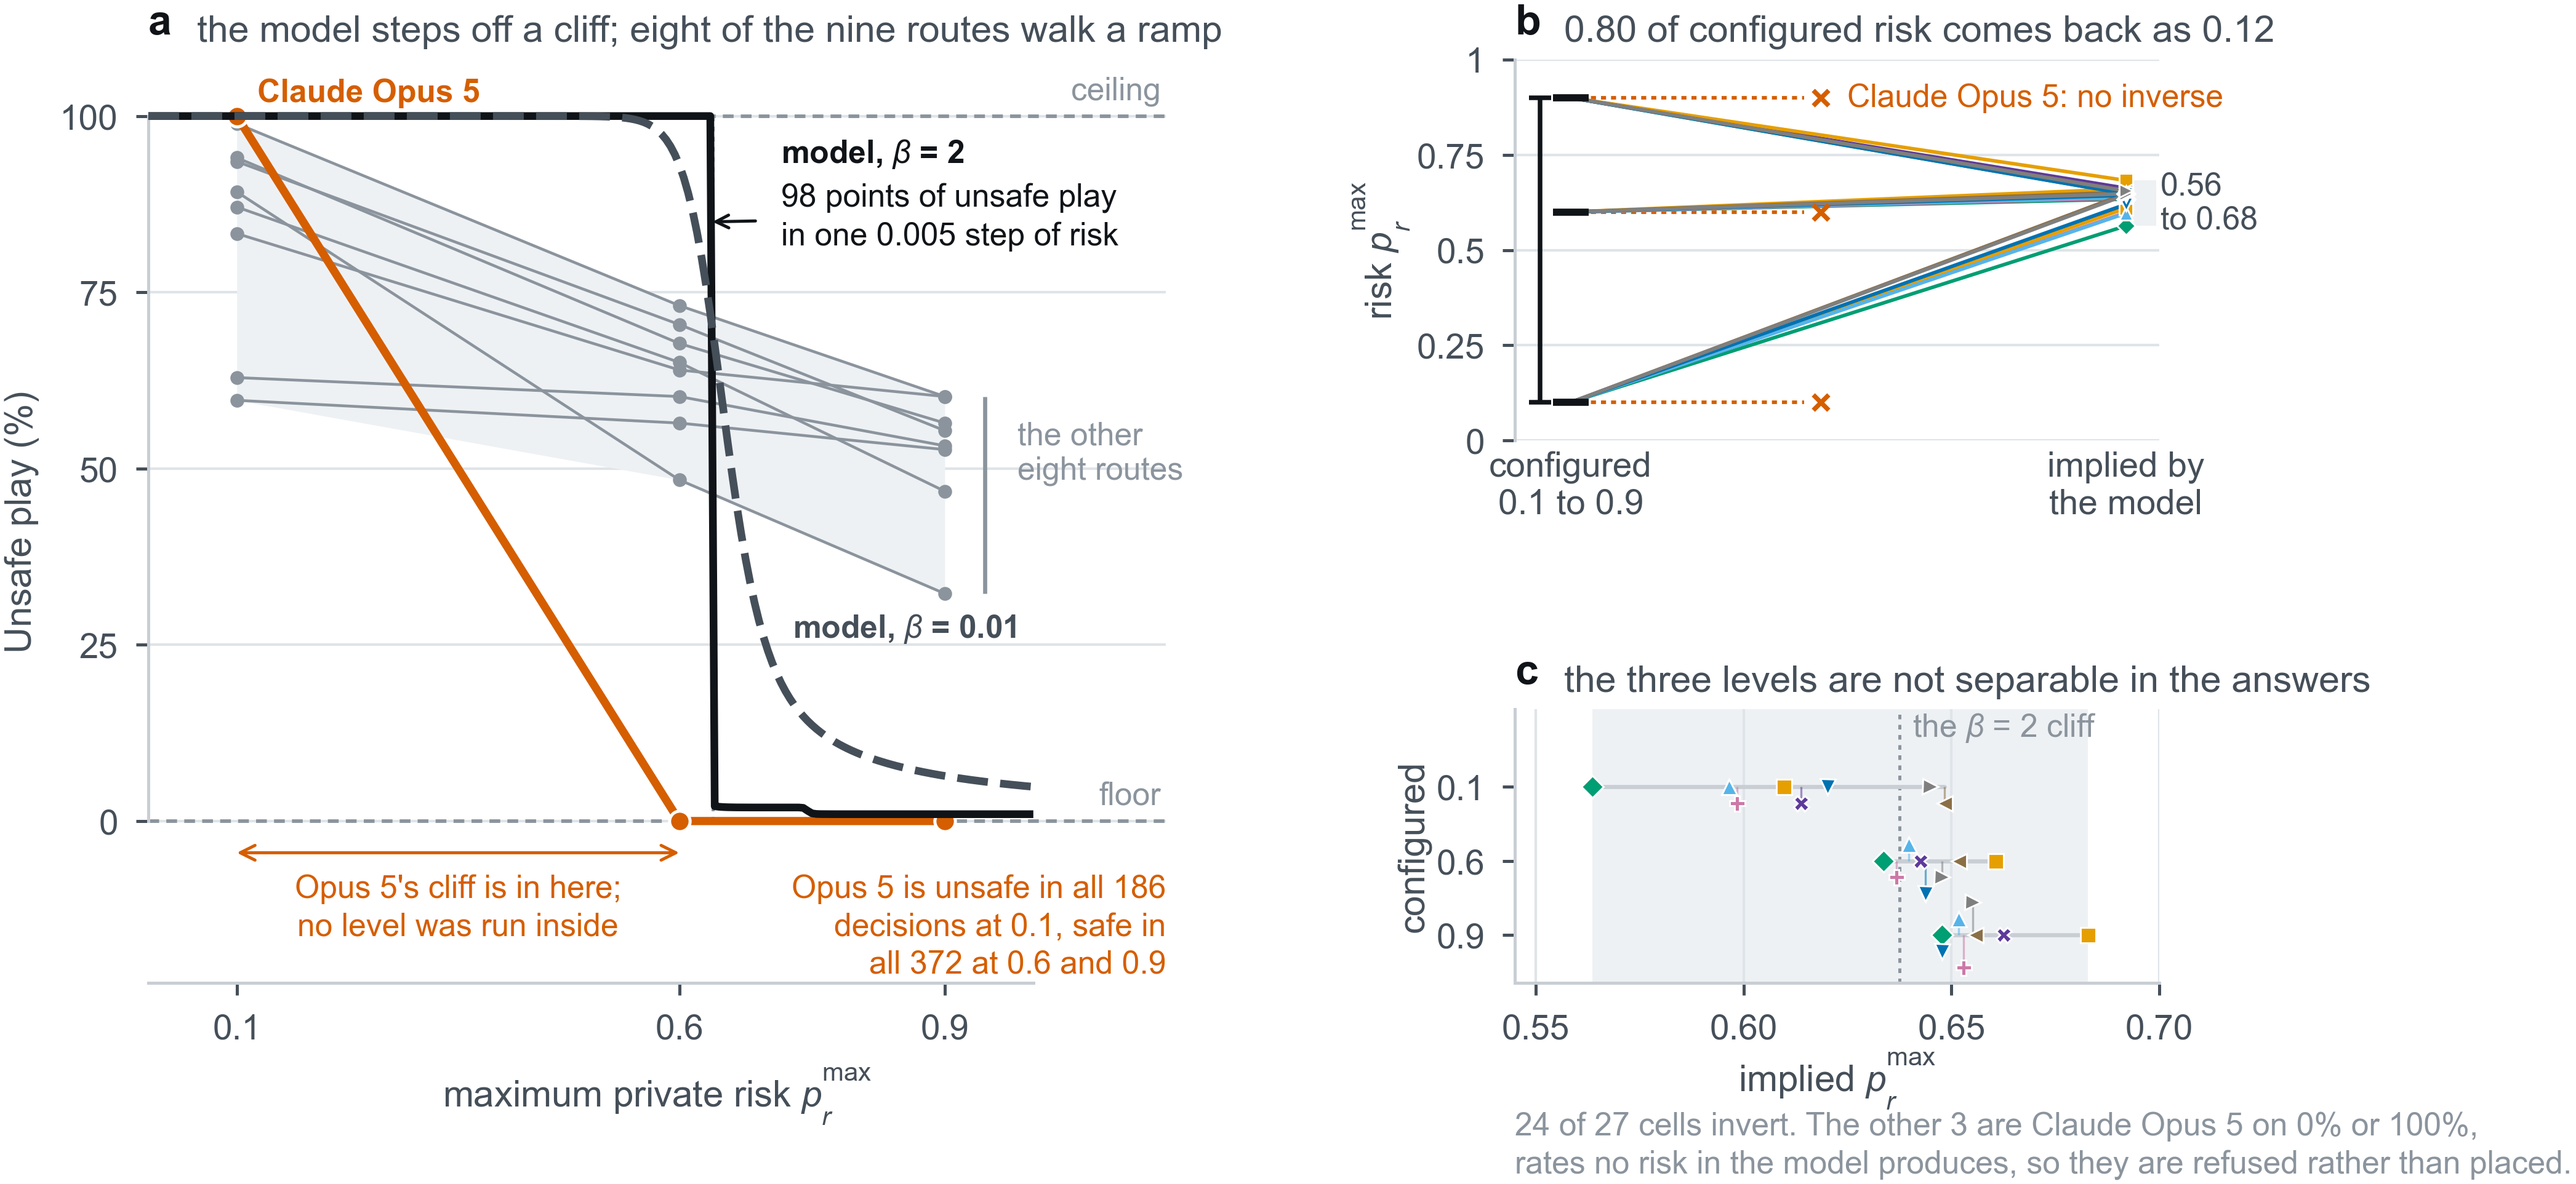
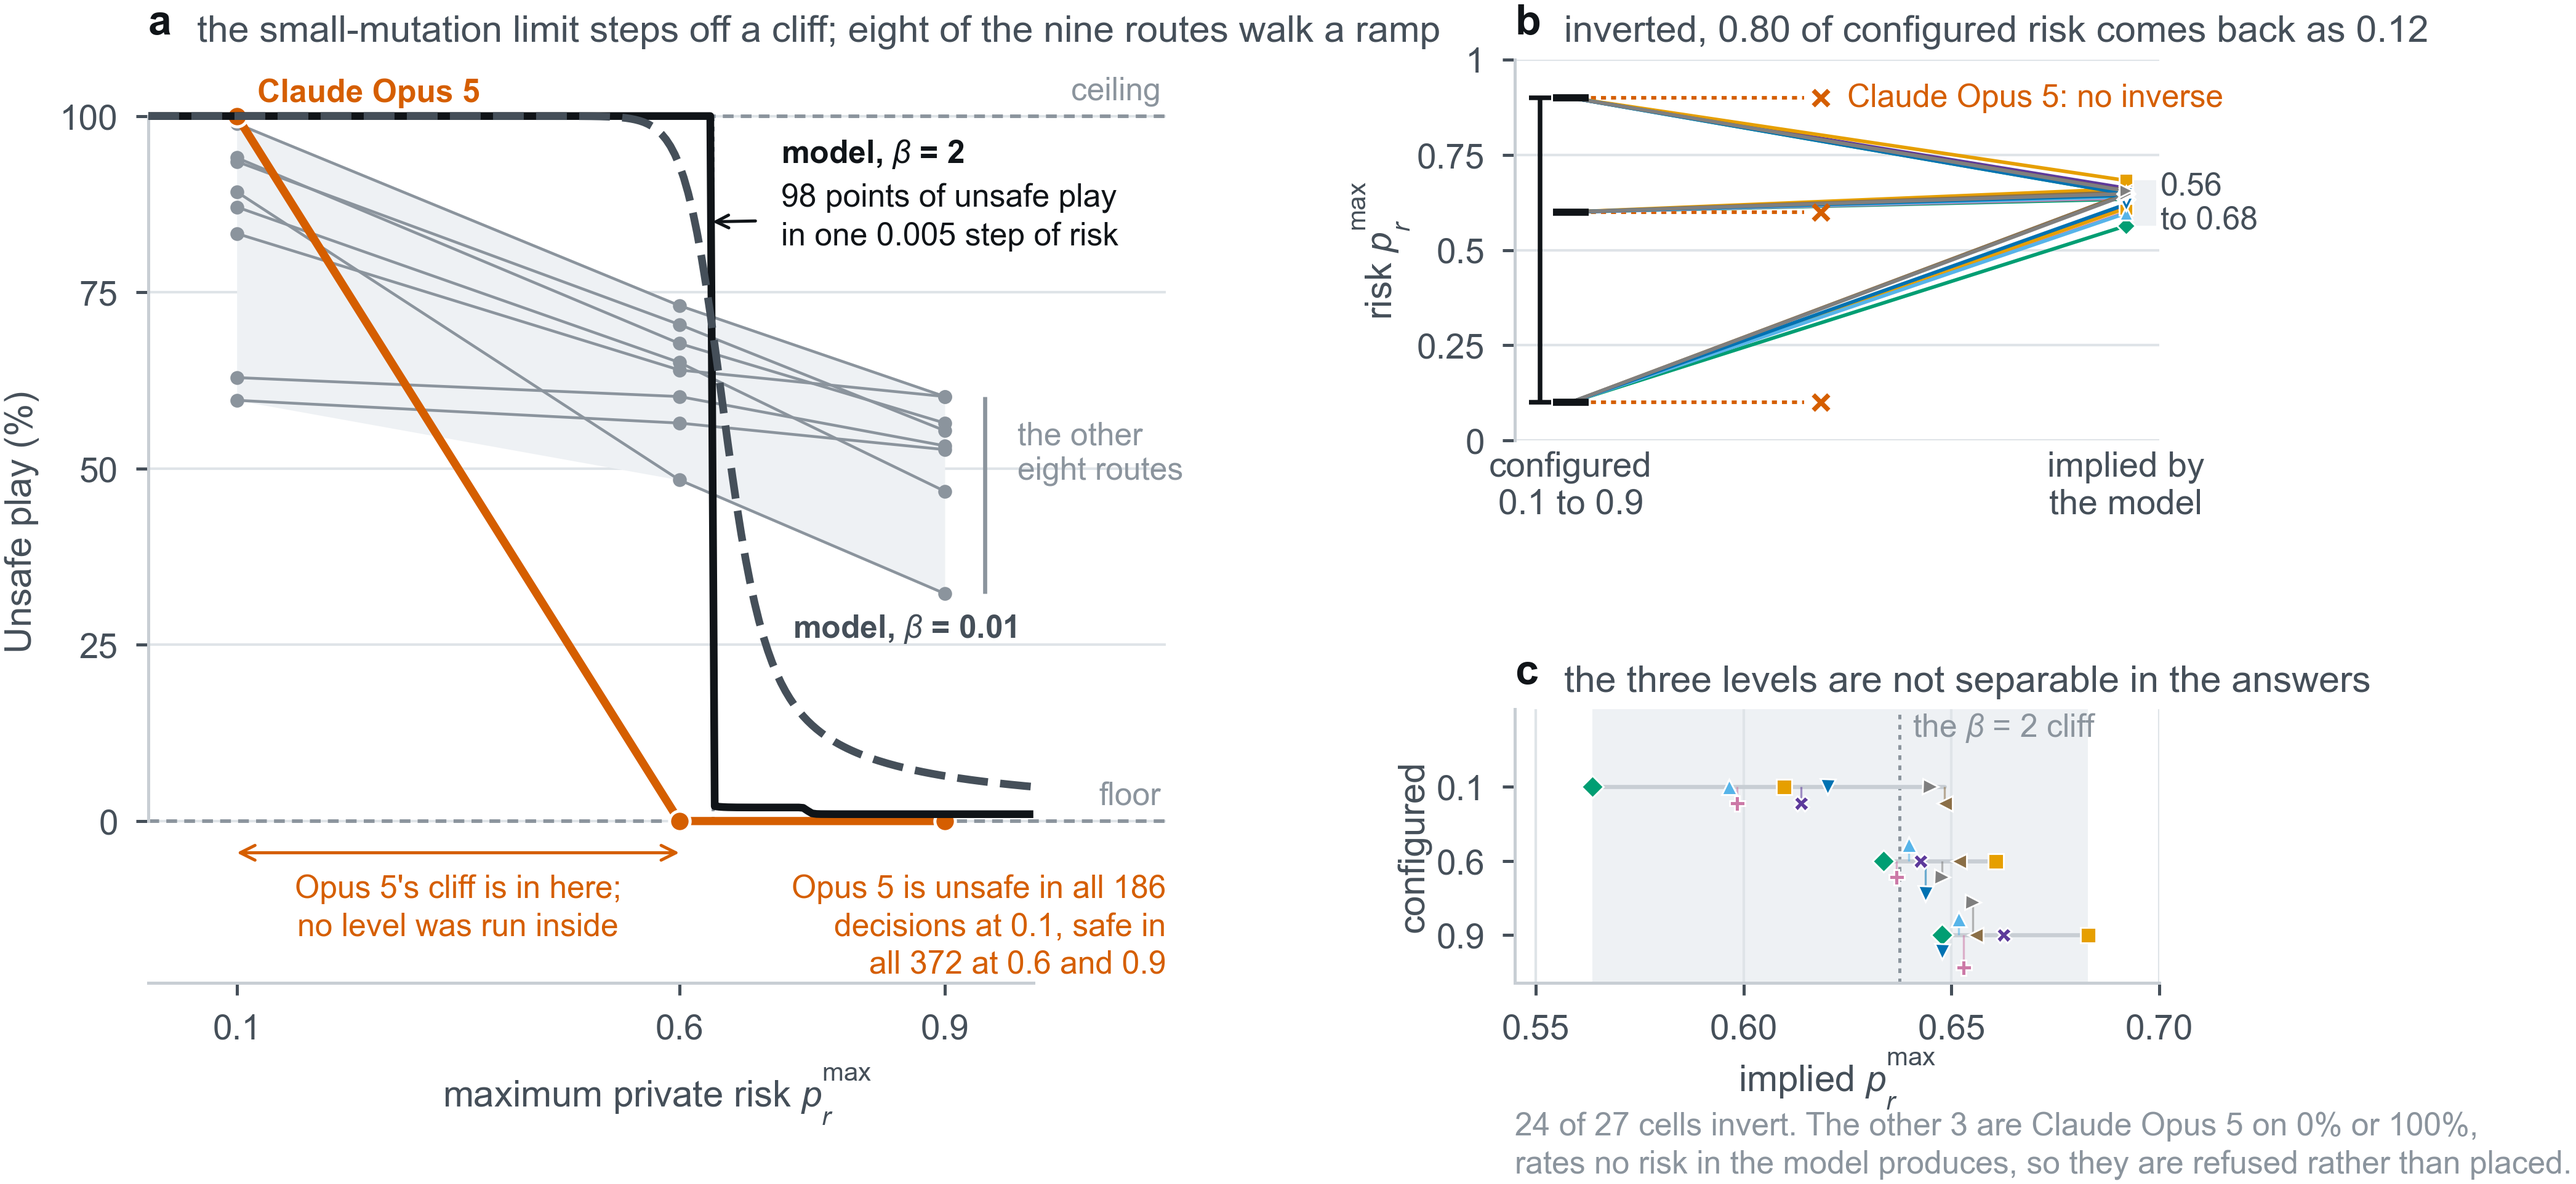
Name the regime on the page, not only in the docstring
Every curve in the theory figure is the small-mutation limit, and the theory
metadata states that limit cannot represent the finite mutation rate of the
parameter points it is drawn at. The docstring said so; the panel claim said
'the model', which is the line a reader actually sees. It now says which model.

Changed region(s): [[0.0932, 0.0, 0.5591, 0.0312], [0.5902, 0.0, 0.9319, 0.0312]]

diff --git a/scripts/figures/fig_theory_versus_behaviour.py b/scripts/figures/fig_theory_versus_behaviour.py
@@ -410,8 +410,13 @@ def panel_a(ax, res, d) -> None:
     ax.plot([0.945, 0.945], [ends.min(), ends.max()], color=S.MUTED, lw=0.8,
             clip_on=False, zorder=4)
     S.direct_label(ax, 0.965, ends.mean(), "the other\neight routes", color=S.MUTED)
+    # Naming the regime on the page, not only in the docstring. Every curve here
+    # is the small-mutation limit, which the theory metadata states cannot
+    # represent the finite mutation rate of the parameter points it is drawn at,
+    # and a reader who sees only "the model" would not know which model.
     S.panel(ax, "a",
-            "the model steps off a cliff; eight of the nine routes walk a ramp")
+            "the small-mutation limit steps off a cliff; eight of the nine "
+            "routes walk a ramp")
 
 
 def panel_b(ax, res, d) -> None:
@@ -462,7 +467,8 @@ def panel_b(ax, res, d) -> None:
     ax.set_axisbelow(True)
     ax.grid(True, axis="y", zorder=0)
     S.panel(ax, "b",
-            f"{d['span']:.2f} of configured risk comes back as {d['width']:.2f}")
+            f"inverted, {d['span']:.2f} of configured risk comes back as "
+            f"{d['width']:.2f}")
 
 
 def dodge(values, *, separation, step=0.22, levels=5):
